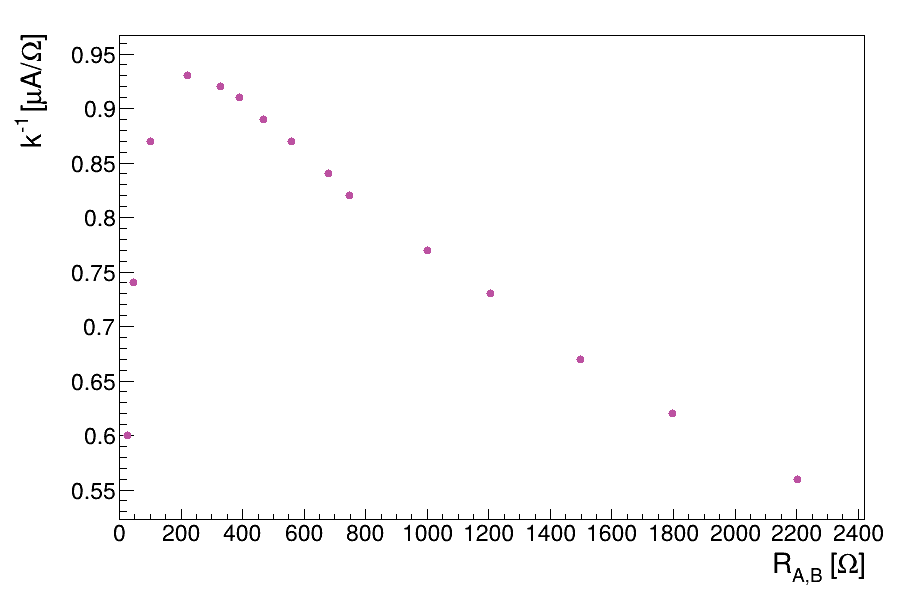
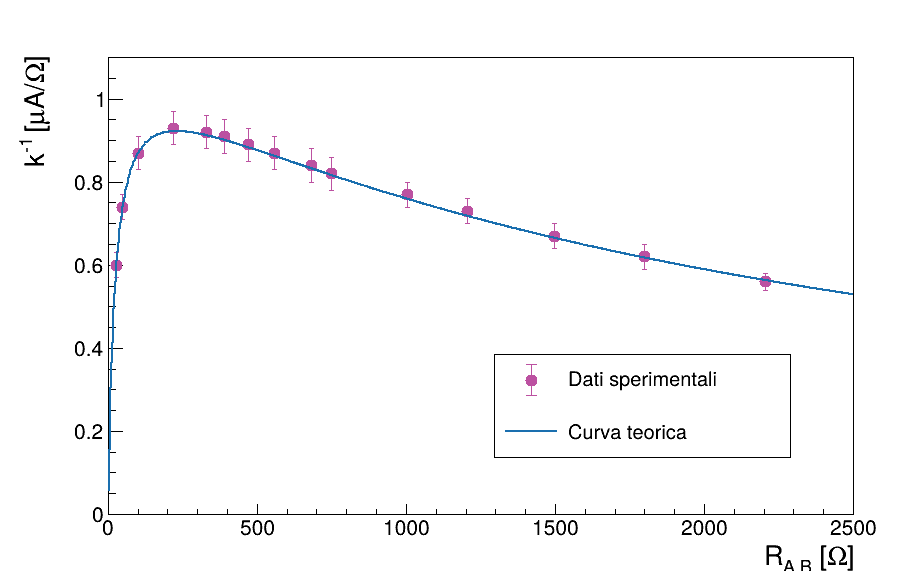
ciao

diff --git a/root/k.cpp b/root/k.cpp
@@ -1,16 +1,35 @@
 // k.cpp
-// Grafico k^-1 vs Resistenza
-// Uso: root -l 'k.cpp+'
+// Grafico k^-1 vs Resistenza con curva teorica sovrapposta
 
 #include <TGraph.h>
+#include <TGraphErrors.h>
 #include <TCanvas.h>
 #include <TStyle.h>
 #include <TFile.h>
+#include <TF1.h>
+#include <TLegend.h>
 #include <vector>
 #include <iostream>
+#include <cmath>
+
+// ===== Costanti della formula =====
+const Double_t E_VOLT = 10.11;    // tensione e [V]
+const Double_t R_X    = 1952.17;  // resistenza Rx [Ohm]
+const Double_t R_E    = 46.6;     // Re [Ohm]
+const Double_t R_A    = 170.0;    // Ramp [Ohm]
+
+Double_t kInverseFormula(Double_t *x, Double_t *) {
+  Double_t R = x[0];
+  Double_t num   = E_VOLT * R;
+  Double_t denom = (2*R_X + R_E) * R*R
+                 + R * (2*R_X*R_X + 4*R_X*R_A + 2*R_X*R_E + 2*R_E*R_A)
+                 + R_X*R_X*R_E + 2*R_X*R_E*R_A;
+  if (std::abs(denom) < 1e-30) return 0;
+  return (num / denom) * 1e6;
+}
 
 void plotKinverse() {
-  // ===== 1) Dati: resistenze e k =====
+  // ===== 1) Dati sperimentali =====
   std::vector<Double_t> resistance = {
     27.25, 47, 99.91, 219.68, 329.54, 389.52, 469.38, 558.38, 680.06, 747.14,
     1002.1, 1206.3, 1497.1, 1797.5, 2203
@@ -21,27 +40,48 @@ void plotKinverse() {
     0.77, 0.73, 0.67, 0.62, 0.56
   };
 
-  if (resistance.empty() || k.empty() || resistance.size() != k.size()) {
+  // ===== Incertezze su k =====
+  std::vector<Double_t> k_err = {
+    0.03, 0.03, 0.04, 0.04, 0.04, 0.04, 0.04, 0.04, 0.04, 0.04,
+    0.03, 0.03, 0.03, 0.03, 0.02
+  };
+
+  if (resistance.empty() || k.empty() || resistance.size() != k.size()
+      || k_err.size() != k.size()) {
     std::cerr << "Nessun dato o dimensioni non corrispondenti.\n";
     return;
   }
 
-  // ===== 2) I dati di k sono già invertiti =====
-  std::vector<Double_t> kinverse = k;
+  // ===== 2) Controllo valori teorici a terminale =====
+  std::cout << "=== Controllo valori curva teorica ===" << std::endl;
+  for (int i = 0; i < (int)resistance.size(); ++i) {
+    Double_t r  = resistance[i];
+    Double_t th = kInverseFormula(&r, nullptr);
+    std::cout << "  Ra = " << r
+              << " Ohm -> k^-1 teorico = " << th
+              << "  sperimentale = " << k[i] << std::endl;
+  }
+  std::cout << "======================================" << std::endl;
 
-  // ===== 3) Crea il grafico (k^-1 vs R) =====
-  Int_t n = kinverse.size();
-  TGraph *g = new TGraph(n);
-
+  // ===== 3) Grafico punti sperimentali con barre di errore =====
+  Int_t n = k.size();
+  TGraphErrors *g = new TGraphErrors(n);
   for (Int_t i = 0; i < n; ++i) {
-    g->SetPoint(i, resistance[i], kinverse[i]);
+    g->SetPoint(i, resistance[i], k[i]);
+    g->SetPointError(i, 0, k_err[i]);  // errore solo su Y, X = 0
   }
 
-  // ===== 4) Imposta stile =====
   g->SetTitle(";R_{A,B} [#Omega];k^{-1} [#muA/#Omega]");
   g->SetMarkerColor(TColor::GetColor("#bc51a1"));
   g->SetMarkerStyle(20);
-  g->SetMarkerSize(1.0);
+  g->SetMarkerSize(1.5);
+  g->SetLineColor(TColor::GetColor("#bc51a1"));  // barre errore stesso colore
+
+  // ===== 4) Curva teorica =====
+  TF1 *fteoria = new TF1("fteoria", kInverseFormula, 0, 2500, 0);
+  fteoria->SetNpx(1000);
+  fteoria->SetLineColor(TColor::GetColor("#1a6faf"));
+  fteoria->SetLineWidth(2);
 
   // ===== 5) Canvas e disegno =====
   gStyle->SetOptStat(0);
@@ -49,7 +89,12 @@ void plotKinverse() {
   c->SetLeftMargin(0.12);
   c->SetRightMargin(0.05);
 
+  g->SetMinimum(0.0);
+  g->SetMaximum(1.1);
   g->Draw("AP");
+
+  g->GetXaxis()->SetLimits(0, 2500);
+
   g->GetXaxis()->SetTitleSize(0.05);
   g->GetYaxis()->SetTitleSize(0.05);
   g->GetXaxis()->SetLabelSize(0.04);
@@ -57,11 +102,32 @@ void plotKinverse() {
   g->GetXaxis()->SetTickLength(0.02);
   g->GetYaxis()->SetTickLength(0.02);
 
-  // ===== 6) Salvataggio =====
+  fteoria->Draw("SAME");
+
+  // ===== 6) Legenda =====
+  TLegend *leg = new TLegend(0.55, 0.20, 0.88, 0.38);
+  leg->SetBorderSize(1);
+  leg->SetFillStyle(0);
+  leg->SetTextSize(0.038);
+  leg->AddEntry(g,       "Dati sperimentali", "ep");
+  leg->AddEntry(fteoria, "Curva teorica",      "l");
+  leg->Draw();
+
+  // ===== 7) Salvataggio =====
   c->SaveAs("k_inverse_plot.png");
   TFile fout("k_inverse_plot.root", "RECREATE");
   g->Write();
+  fteoria->Write();
   fout.Close();
 
   Info("plotKinverse", "Saved k_inverse_plot.png and k_inverse_plot.root");
 }
+
+#ifndef __CINT__
+int main(int argc, char **argv) {
+  TApplication theApp("App", &argc, argv);
+  plotKinverse();
+  theApp.Run();
+  return 0;
+}
+#endif
